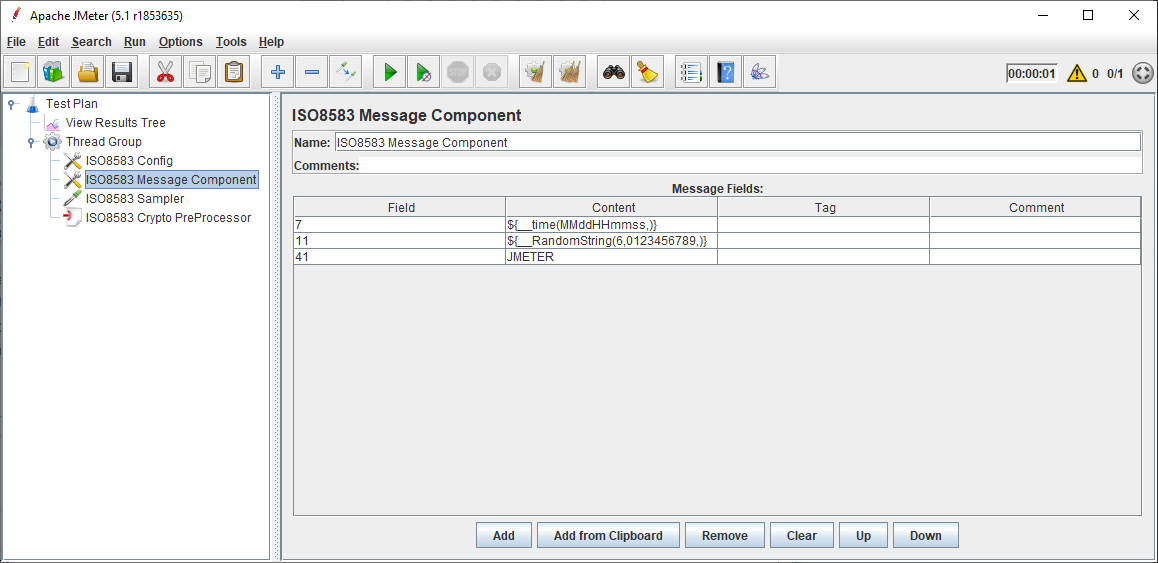
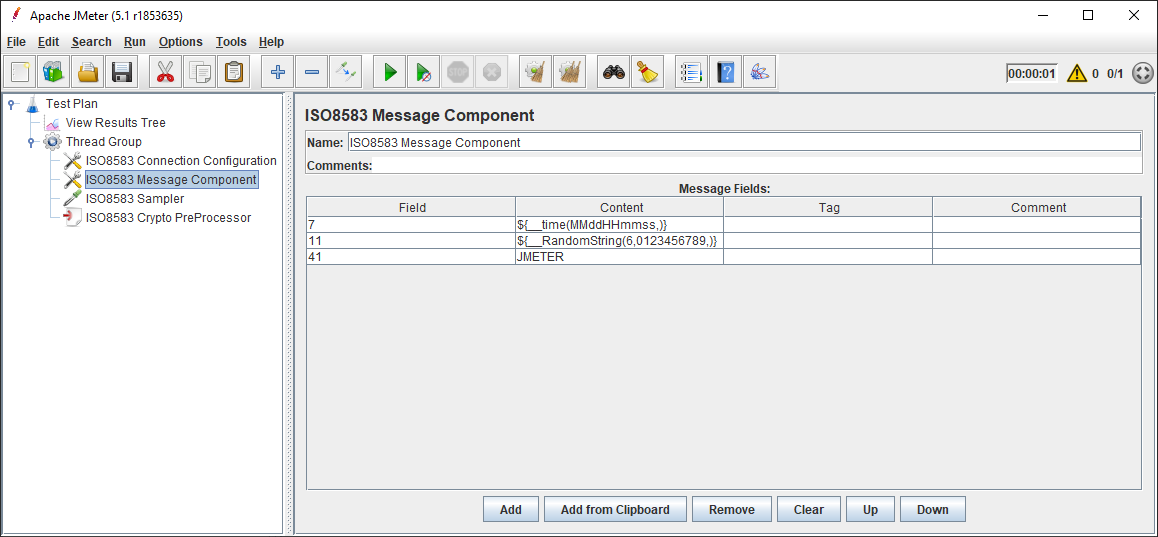
Rename config

Changed region(s): [[0.0, 0.0, 1.0, 1.0], [0.9637, 0.0, 0.9948, 0.0298]]

diff --git a/README.md b/README.md
@@ -10,7 +10,7 @@ Apache JMeter plugin for load testing of payment gateways and switches via [ISO 
 based on the excellent [jPOS framework](http://jpos.org/). Includes the following components:
 
 - [*ISO8583 Sampler*](#sampler) for defining and sending messages,
-- [*ISO8583 Config*](#config) for integration with the system under test,
+- [*ISO8583 Connection Configuration*](#config) for integration with the system under test,
 - [*ISO8583 Message Component*](#component) (optional) for sharing common message fields,
 - [*ISO8583 Crypto PreProcessor*](#crypto) (optional) for encryption operations of certain message elements (PIN Block, MAC, ARQC).
 - [*Crypto functions*](#functions) (optional) for non-message related cryptographic calculations.
@@ -35,9 +35,9 @@ A hex dump of the raw (binary) message is included for troubleshooting purposes.
 Usage
 -----
 
-<h3 id="config">ISO8583 Config</h3>
+<h3 id="config">ISO8583 Connection Configuration</h3>
 
-![ISO8583 Config](docs/config.png)
+![ISO8583 Connection Configuration](docs/config.png)
 
 This Configuration Element must be included to use the *ISO8583 Sampler*. 
 
@@ -376,11 +376,11 @@ Under tab "Available Plugins", select "ISO8583 Sampler", then click "Apply Chang
 
 ### Via Package from [JMeter-Plugins.org](https://jmeter-plugins.org/)
 
-Extract the [zip package](https://jmeter-plugins.org/files/packages/tilln-iso8583-1.0.zip) into JMeter's lib directory, then restart JMeter.
+Extract the [zip package](https://jmeter-plugins.org/files/packages/tilln-iso8583-1.1.zip) into JMeter's lib directory, then restart JMeter.
 
 ### Via Manual Download
 
-1. Copy the [jmeter-iso8583 jar file](https://github.com/tilln/jmeter-iso8583/releases/download/1.0/jmeter-iso8583-1.0.jar) into JMeter's `lib/ext` directory.
+1. Copy the [jmeter-iso8583 jar file](https://github.com/tilln/jmeter-iso8583/releases/download/1.0/jmeter-iso8583-1.1.jar) into JMeter's `lib/ext` directory.
 2. Copy the following dependencies into JMeter's `lib` directory (and optionally remove older versions of any of those jar files):
     * [org.jpos / jpos](https://search.maven.org/remotecontent?filepath=org/jpos/jpos/2.1.4/jpos-2.1.4.jar)
     * [org.bouncycastle / bcprov-jdk15on](https://search.maven.org/remotecontent?filepath=org/bouncycastle/bcprov-jdk15on/1.64/bcprov-jdk15on-1.64.jar)
